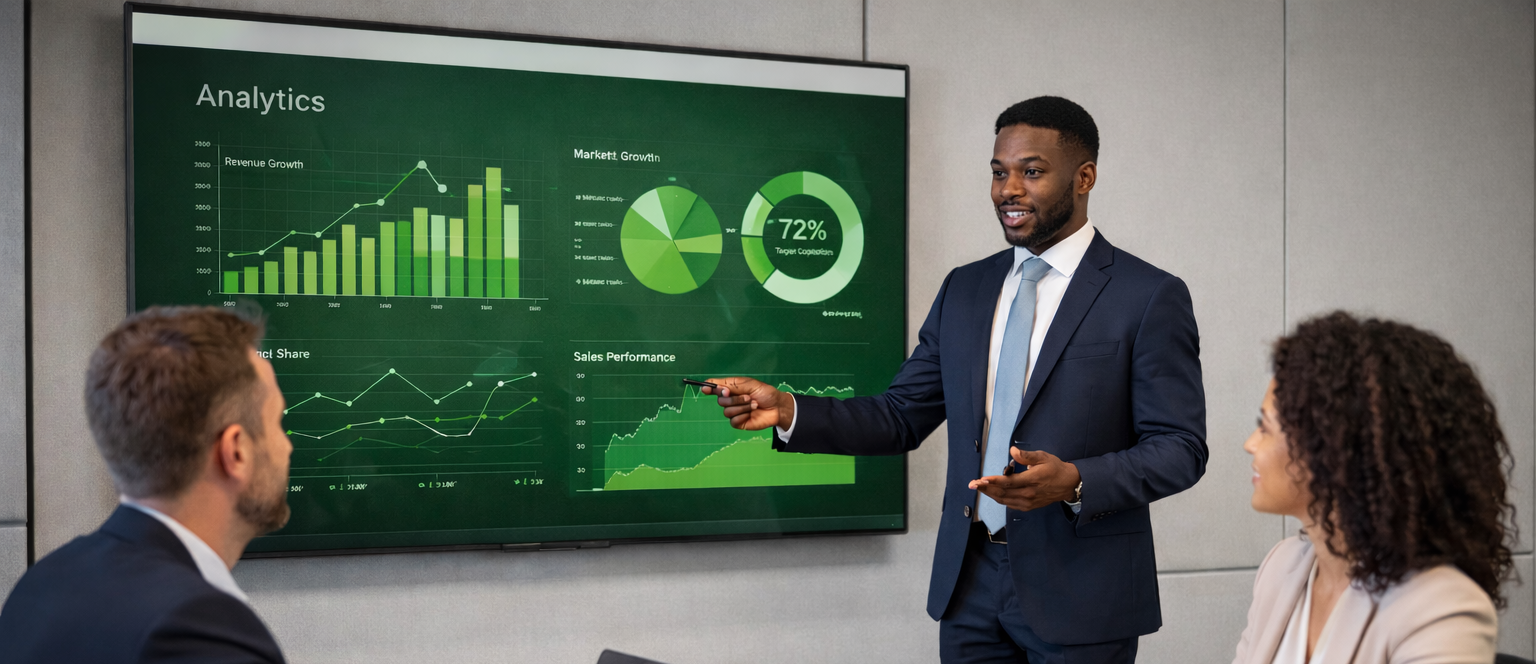
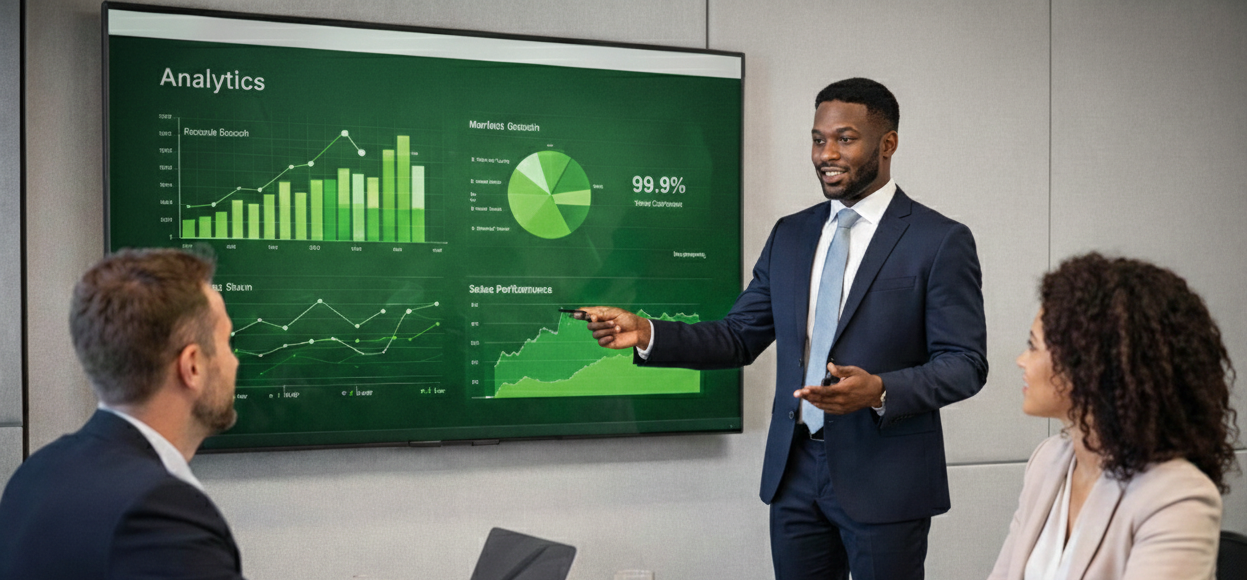
Updated Images

diff --git a/src/components/StandardsSection.tsx b/src/components/StandardsSection.tsx
@@ -1,6 +1,7 @@
 import { FontAwesomeIcon } from "@fortawesome/react-fontawesome";
 import { faUsers, faEye, faClipboard, faArrowRight } from "@fortawesome/free-solid-svg-icons";
 import { ArrowRight, FileText, BarChart3, Shield, Database } from "lucide-react";
+import { Link } from "react-router-dom";
 
 const cards = [
   {
@@ -40,7 +41,7 @@ const StandardsSection = () => {
         </div>
 
         {/* Cards */}
-        <div className="grid md:grid-cols-3 gap-8">
+        <div className="grid md:grid-cols-3 gap-8 h-200">
           {cards.map((card, index) => (
             <div
               key={card.title}
@@ -54,15 +55,15 @@ const StandardsSection = () => {
                 {card.title}
               </h3>
               <p className="text-muted-foreground mb-6">{card.description}</p>
-              <a
-                href={card.link}
+              <Link
+                to="/AboutArmada"
                 className="inline-flex items-center gap-2 text-foreground font-semibold hover:gap-3 transition-all rounded-full px-4 py-2 group-hover:text-white"
               >
                 Read more
                 <span className="w-8 h-8 rounded-full bg-[#1d2530] flex items-center justify-center transition-colors group-hover:bg-[#91CD95]">
                   <FontAwesomeIcon icon={faArrowRight} style={{ color: '#ffffff', fontSize: '1rem' }} />
                 </span>
-              </a>
+              </Link>
             </div>
           ))}
         </div>

diff --git a/src/components/AboutSection.tsx b/src/components/AboutSection.tsx
@@ -1,5 +1,6 @@
 import { ArrowRight, CheckCircle } from "lucide-react";
 import aboutImage from "@/assets/about-image.png";
+import { Link } from "react-router-dom";
 
 const features = [
   "Licensed by Bank of Uganda",
@@ -53,12 +54,16 @@ const AboutSection = () => {
               ))}
             </div>
 
-            <a href="#" className="btn-primary inline-flex items-center gap-4 group rounded-full px-10 py-3 text-lg font-bold" style={{ borderRadius: '9999px' }}>
+            <Link
+              to="/AboutArmada"
+              className="btn-primary inline-flex items-center gap-4 group rounded-full px-10 py-3 text-lg font-bold"
+              style={{ borderRadius: '9999px' }}
+            >
               Read More
               <span className="flex items-center justify-center bg-white" style={{ borderRadius: '50%', width: 40, height: 40 }}>
                 <ArrowRight className="w-6 h-6 text-[#0068ad] group-hover:translate-x-1 transition-transform" />
               </span>
-            </a>
+            </Link>
           </div>
         </div>
       </div>

diff --git a/src/components/HeroSection.tsx b/src/components/HeroSection.tsx
@@ -4,10 +4,10 @@ import { motion } from "framer-motion";
 import { Link } from "react-router-dom";
 
 // Background images
-import hero1 from "@/assets/young-team.png";
-import hero2 from "@/assets/credit-report-fine.png";
+import hero1 from "@/assets/young team.png";
+import hero2 from "@/assets/credit_report.png";
 import hero3 from "@/assets/analytics_african_men.png";
-import hero4 from "@/assets/women_standing_final2.png";
+import hero4 from "@/assets/women_standing_final3.png";
 import hero5 from "@/assets/risk_int.png";
 import hero6 from "@/assets/lady and the guy final.png";
 import hero7 from "@/assets/welcome6.png";
